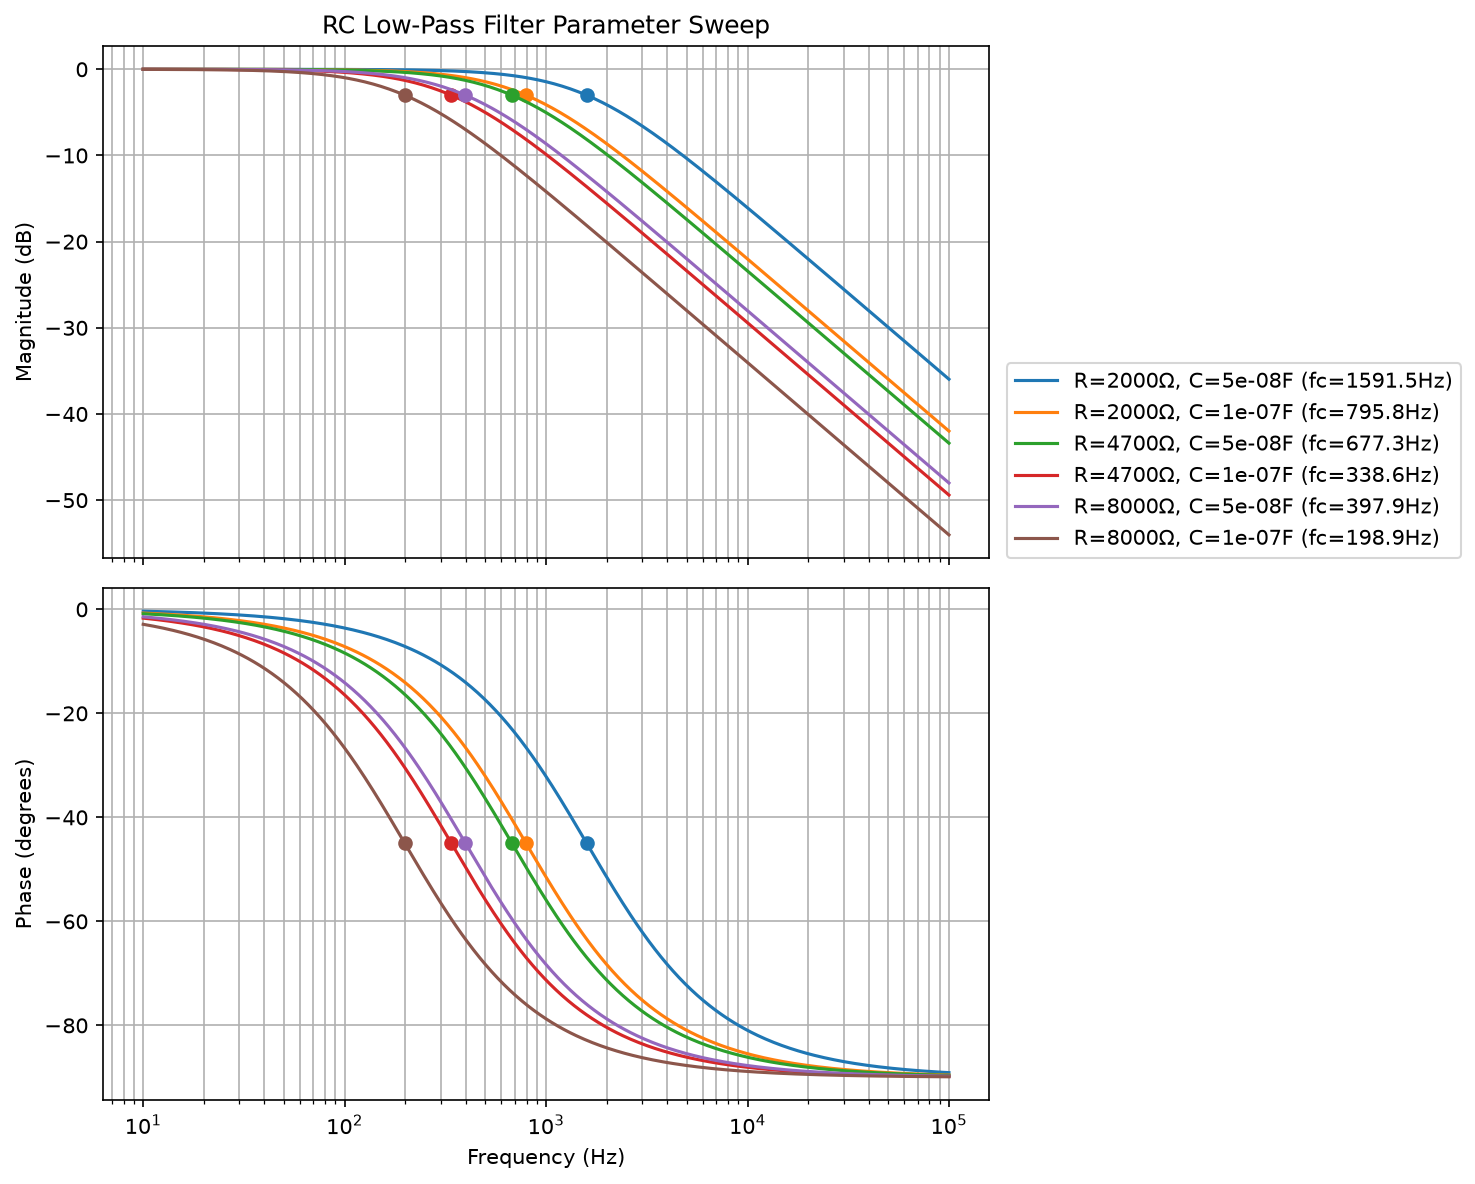
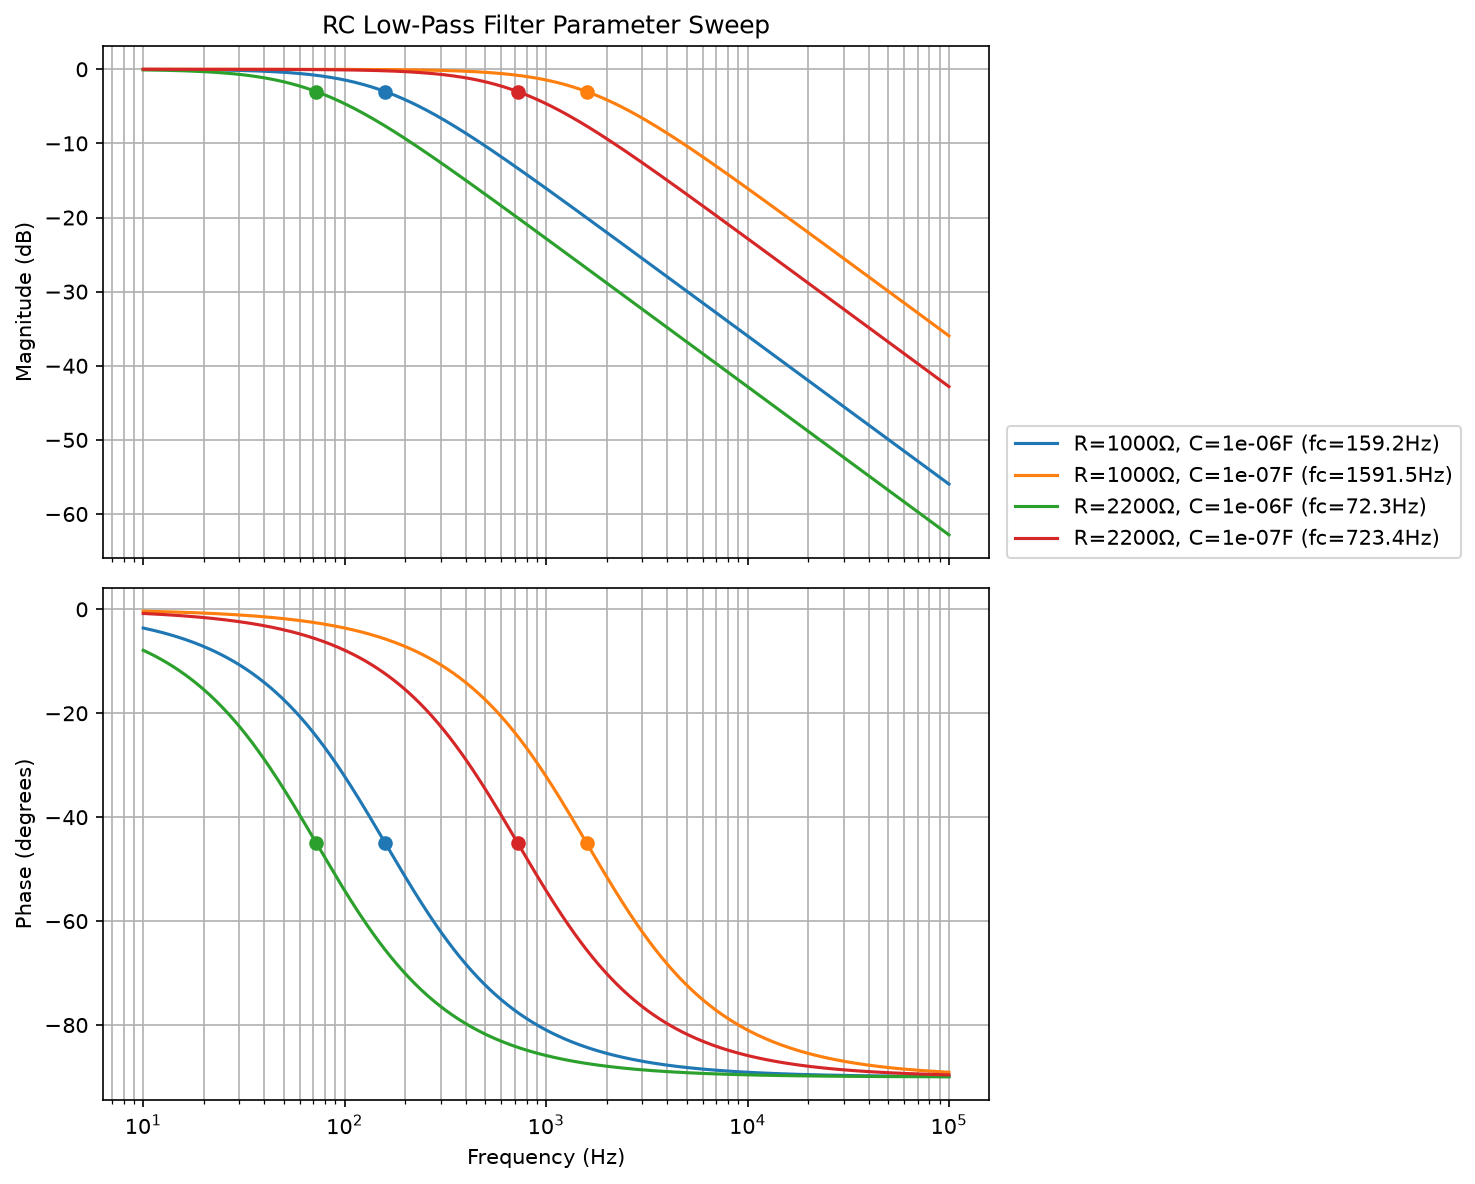
split sweep and simulate, created test

diff --git a/spice_agent/simulate.py b/spice_agent/simulate.py
@@ -1,0 +1,99 @@
+import math
+import re
+import shutil
+import subprocess
+import tempfile
+from pathlib import Path
+from typing import TypedDict
+
+import numpy as np
+
+
+class SimulationResult(TypedDict):
+    frequency_hz: np.ndarray
+    gain_db: np.ndarray
+    phase_deg: np.ndarray
+    fc_measured_hz: float | None
+    fc_theoretical_hz: float
+
+
+def simulate_rc(r_ohms: float, c_farads: float) -> SimulationResult:
+    """Simulate one RC low-pass filter and return its AC response."""
+    if not math.isfinite(r_ohms) or r_ohms <= 0:
+        raise ValueError("r_ohms must be a finite positive number")
+    if not math.isfinite(c_farads) or c_farads <= 0:
+        raise ValueError("c_farads must be a finite positive number")
+
+    ngspice = shutil.which("ngspice")
+    if ngspice is None:
+        raise RuntimeError("ngspice isn't installed or isn't on PATH")
+
+    netlist = Path(__file__).resolve().parents[1] / "circuits" / "rc_lowpass.cir"
+    if not netlist.is_file():
+        raise FileNotFoundError(f"Couldn't find RC low-pass netlist: {netlist}")
+
+    deck_template = netlist.read_text()
+    parameter_line = f".param RVAL={r_ohms:.12g} CVAL={c_farads:.12g}"
+    deck, replacements = re.subn(
+        r"(?im)^\.param\s+RVAL=.*$", parameter_line, deck_template
+    )
+    if replacements != 1:
+        raise RuntimeError("Expected exactly one .param RVAL=... line in the netlist")
+
+    with tempfile.TemporaryDirectory() as temp_dir:
+        run_netlist = Path(temp_dir) / netlist.name
+        run_netlist.write_text(deck)
+
+        result = subprocess.run(
+            [ngspice, "-b", str(run_netlist)],
+            cwd=temp_dir,
+            capture_output=True,
+            text=True,
+            timeout=30,
+        )
+
+        error_lines = [
+            f"{stream_name}: {line}"
+            for stream_name, output in (
+                ("stdout", result.stdout),
+                ("stderr", result.stderr),
+            )
+            for line in output.splitlines()
+            if "ERROR" in line.upper()
+        ]
+        if error_lines:
+            raise RuntimeError(
+                f"ngspice reported an error for R={r_ohms}, C={c_farads}:\n"
+                + "\n".join(error_lines)
+            )
+        if result.returncode != 0:
+            raise RuntimeError(
+                f"ngspice failed for R={r_ohms}, C={c_farads} "
+                f"(exit status {result.returncode}):\n"
+                f"{result.stdout}\n{result.stderr}"
+            )
+
+        data_path = Path(temp_dir) / "ac_response.dat"
+        if not data_path.is_file():
+            raise RuntimeError("ngspice did not create ac_response.dat")
+        data = np.loadtxt(data_path, skiprows=1, ndmin=2)
+
+    if data.shape[1] < 3:
+        raise RuntimeError(
+            f"Expected at least 3 columns in ac_response.dat, got {data.shape[1]}"
+        )
+
+    match = re.search(
+        r"^\s*fc\s*=\s*([+-]?(?:\d+(?:\.\d*)?|\.\d+)(?:[eE][+-]?\d+)?)",
+        result.stdout,
+        re.MULTILINE | re.IGNORECASE,
+    )
+    fc_measured = float(match.group(1)) if match else None
+
+    return {
+        "frequency_hz": data[:, 0],
+        "gain_db": data[:, 1],
+        "phase_deg": np.degrees(data[:, 2]),
+        "fc_measured_hz": fc_measured,
+        "fc_theoretical_hz": 1.0 / (2.0 * math.pi * r_ohms * c_farads),
+    }

diff --git a/spice_agent/sweep.py b/spice_agent/sweep.py
@@ -1,0 +1,100 @@
+import argparse
+import itertools
+import math
+import shutil
+from pathlib import Path
+
+import matplotlib.pyplot as plt
+
+from spice_agent.simulate import simulate_rc
+
+
+def main() -> None:
+    parser = argparse.ArgumentParser(
+        description="Sweep RC low-pass filter component values using ngspice."
+    )
+    parser.add_argument(
+        "-r",
+        "--resistors",
+        type=float,
+        nargs="+",
+        required=True,
+        help="One or more resistor values in ohms (e.g., -r 1000 4700 10000)",
+    )
+    parser.add_argument(
+        "-c",
+        "--capacitors",
+        type=float,
+        nargs="+",
+        required=True,
+        help="One or more capacitor values in farads (e.g., -c 1e-6 10e-6)",
+    )
+    args = parser.parse_args()
+
+    if shutil.which("ngspice") is None:
+        raise RuntimeError("ngspice isn't installed or isn't on PATH")
+
+    fig, (magnitude_ax, phase_ax) = plt.subplots(
+        2, 1, figsize=(10, 8), sharex=True
+    )
+    combinations = list(itertools.product(args.resistors, args.capacitors))
+    print(f"Starting sweep of {len(combinations)} component combination(s)...\n")
+
+    for r_ohms, c_farads in combinations:
+        if (
+            r_ohms <= 0
+            or c_farads <= 0
+            or not math.isfinite(r_ohms)
+            or not math.isfinite(c_farads)
+        ):
+            print(f"Skipping invalid pair: R={r_ohms}, C={c_farads}")
+            continue
+
+        try:
+            response = simulate_rc(r_ohms, c_farads)
+        except RuntimeError as error:
+            print(f"Simulation failed for R={r_ohms}, C={c_farads}: {error}")
+            continue
+
+        fc_measured = response["fc_measured_hz"]
+        fc_theoretical = response["fc_theoretical_hz"]
+        run_label = (
+            f"R={r_ohms:g}Ω, C={c_farads:g}F "
+            f"(fc={fc_theoretical:.1f}Hz)"
+        )
+        print(
+            f"Processed: R={r_ohms:g} Ω, C={c_farads:g} F | "
+            f"Theoretical fc: {fc_theoretical:.2f} Hz | "
+            f"Simulated fc: {fc_measured}"
+        )
+
+        line, = magnitude_ax.semilogx(
+            response["frequency_hz"], response["gain_db"], label=run_label
+        )
+        color = line.get_color()
+        phase_ax.semilogx(
+            response["frequency_hz"], response["phase_deg"], color=color
+        )
+
+        if fc_measured:
+            magnitude_ax.plot(fc_measured, -3.0, marker="o", color=color)
+            phase_ax.plot(fc_measured, -45.0, marker="o", color=color)
+
+    magnitude_ax.set_ylabel("Magnitude (dB)")
+    magnitude_ax.set_title("RC Low-Pass Filter Parameter Sweep")
+    magnitude_ax.grid(True, which="both")
+    magnitude_ax.legend(loc="lower left", bbox_to_anchor=(1.02, 0), borderaxespad=0)
+
+    phase_ax.set_xlabel("Frequency (Hz)")
+    phase_ax.set_ylabel("Phase (degrees)")
+    phase_ax.grid(True, which="both")
+
+    fig.tight_layout()
+    output_path = Path("rc_sweep.png")
+    fig.savefig(output_path, dpi=150, bbox_inches="tight")
+    print(f"Saved plot to {output_path.resolve()}")
+    plt.show()
+
+
+if __name__ == "__main__":
+    main()

diff --git a/tests/test_simulate.py b/tests/test_simulate.py
@@ -1,0 +1,62 @@
+import subprocess
+import unittest
+from pathlib import Path
+from unittest.mock import patch
+
+import numpy as np
+
+from spice_agent.simulate import simulate_rc
+
+
+class SimulateRCTests(unittest.TestCase):
+    @patch("spice_agent.simulate.shutil.which", return_value="/usr/bin/ngspice")
+    @patch("spice_agent.simulate.subprocess.run")
+    def test_returns_parsed_ac_response(self, run, which) -> None:
+        def write_response(command, *, cwd, capture_output, text, timeout):
+            netlist_path = Path(command[-1])
+            deck = netlist_path.read_text()
+            self.assertIn(".param RVAL=1000 CVAL=1e-06", deck)
+            self.assertTrue(capture_output)
+            self.assertTrue(text)
+            self.assertEqual(timeout, 30)
+            np.savetxt(
+                Path(cwd) / "ac_response.dat",
+                [[10.0, -0.1, -0.2], [100.0, -3.0, -0.8]],
+                header="frequency vdb vp",
+            )
+            return subprocess.CompletedProcess(
+                command, 0, stdout="fc = 1591.55\n", stderr=""
+            )
+
+        run.side_effect = write_response
+
+        response = simulate_rc(1000, 1e-6)
+
+        which.assert_called_once_with("ngspice")
+        np.testing.assert_array_equal(response["frequency_hz"], [10.0, 100.0])
+        np.testing.assert_array_equal(response["gain_db"], [-0.1, -3.0])
+        np.testing.assert_allclose(response["phase_deg"], np.degrees([-0.2, -0.8]))
+        self.assertEqual(response["fc_measured_hz"], 1591.55)
+        self.assertAlmostEqual(response["fc_theoretical_hz"], 1 / (2 * np.pi * 1e-3))
+
+    def test_rejects_nonpositive_or_nonfinite_values(self) -> None:
+        for resistance, capacitance in (
+            (0, 1e-6),
+            (-1, 1e-6),
+            (float("inf"), 1e-6),
+            (1000, 0),
+            (1000, float("nan")),
+        ):
+            with self.subTest(resistance=resistance, capacitance=capacitance):
+                with self.assertRaises(ValueError):
+                    simulate_rc(resistance, capacitance)
+
+    @patch("spice_agent.simulate.shutil.which", return_value=None)
+    def test_reports_missing_ngspice(self, which) -> None:
+        with self.assertRaisesRegex(RuntimeError, "ngspice"):
+            simulate_rc(2200, 1e-7)
+        which.assert_called_once_with("ngspice")
+
+
+if __name__ == "__main__":
+    unittest.main()
